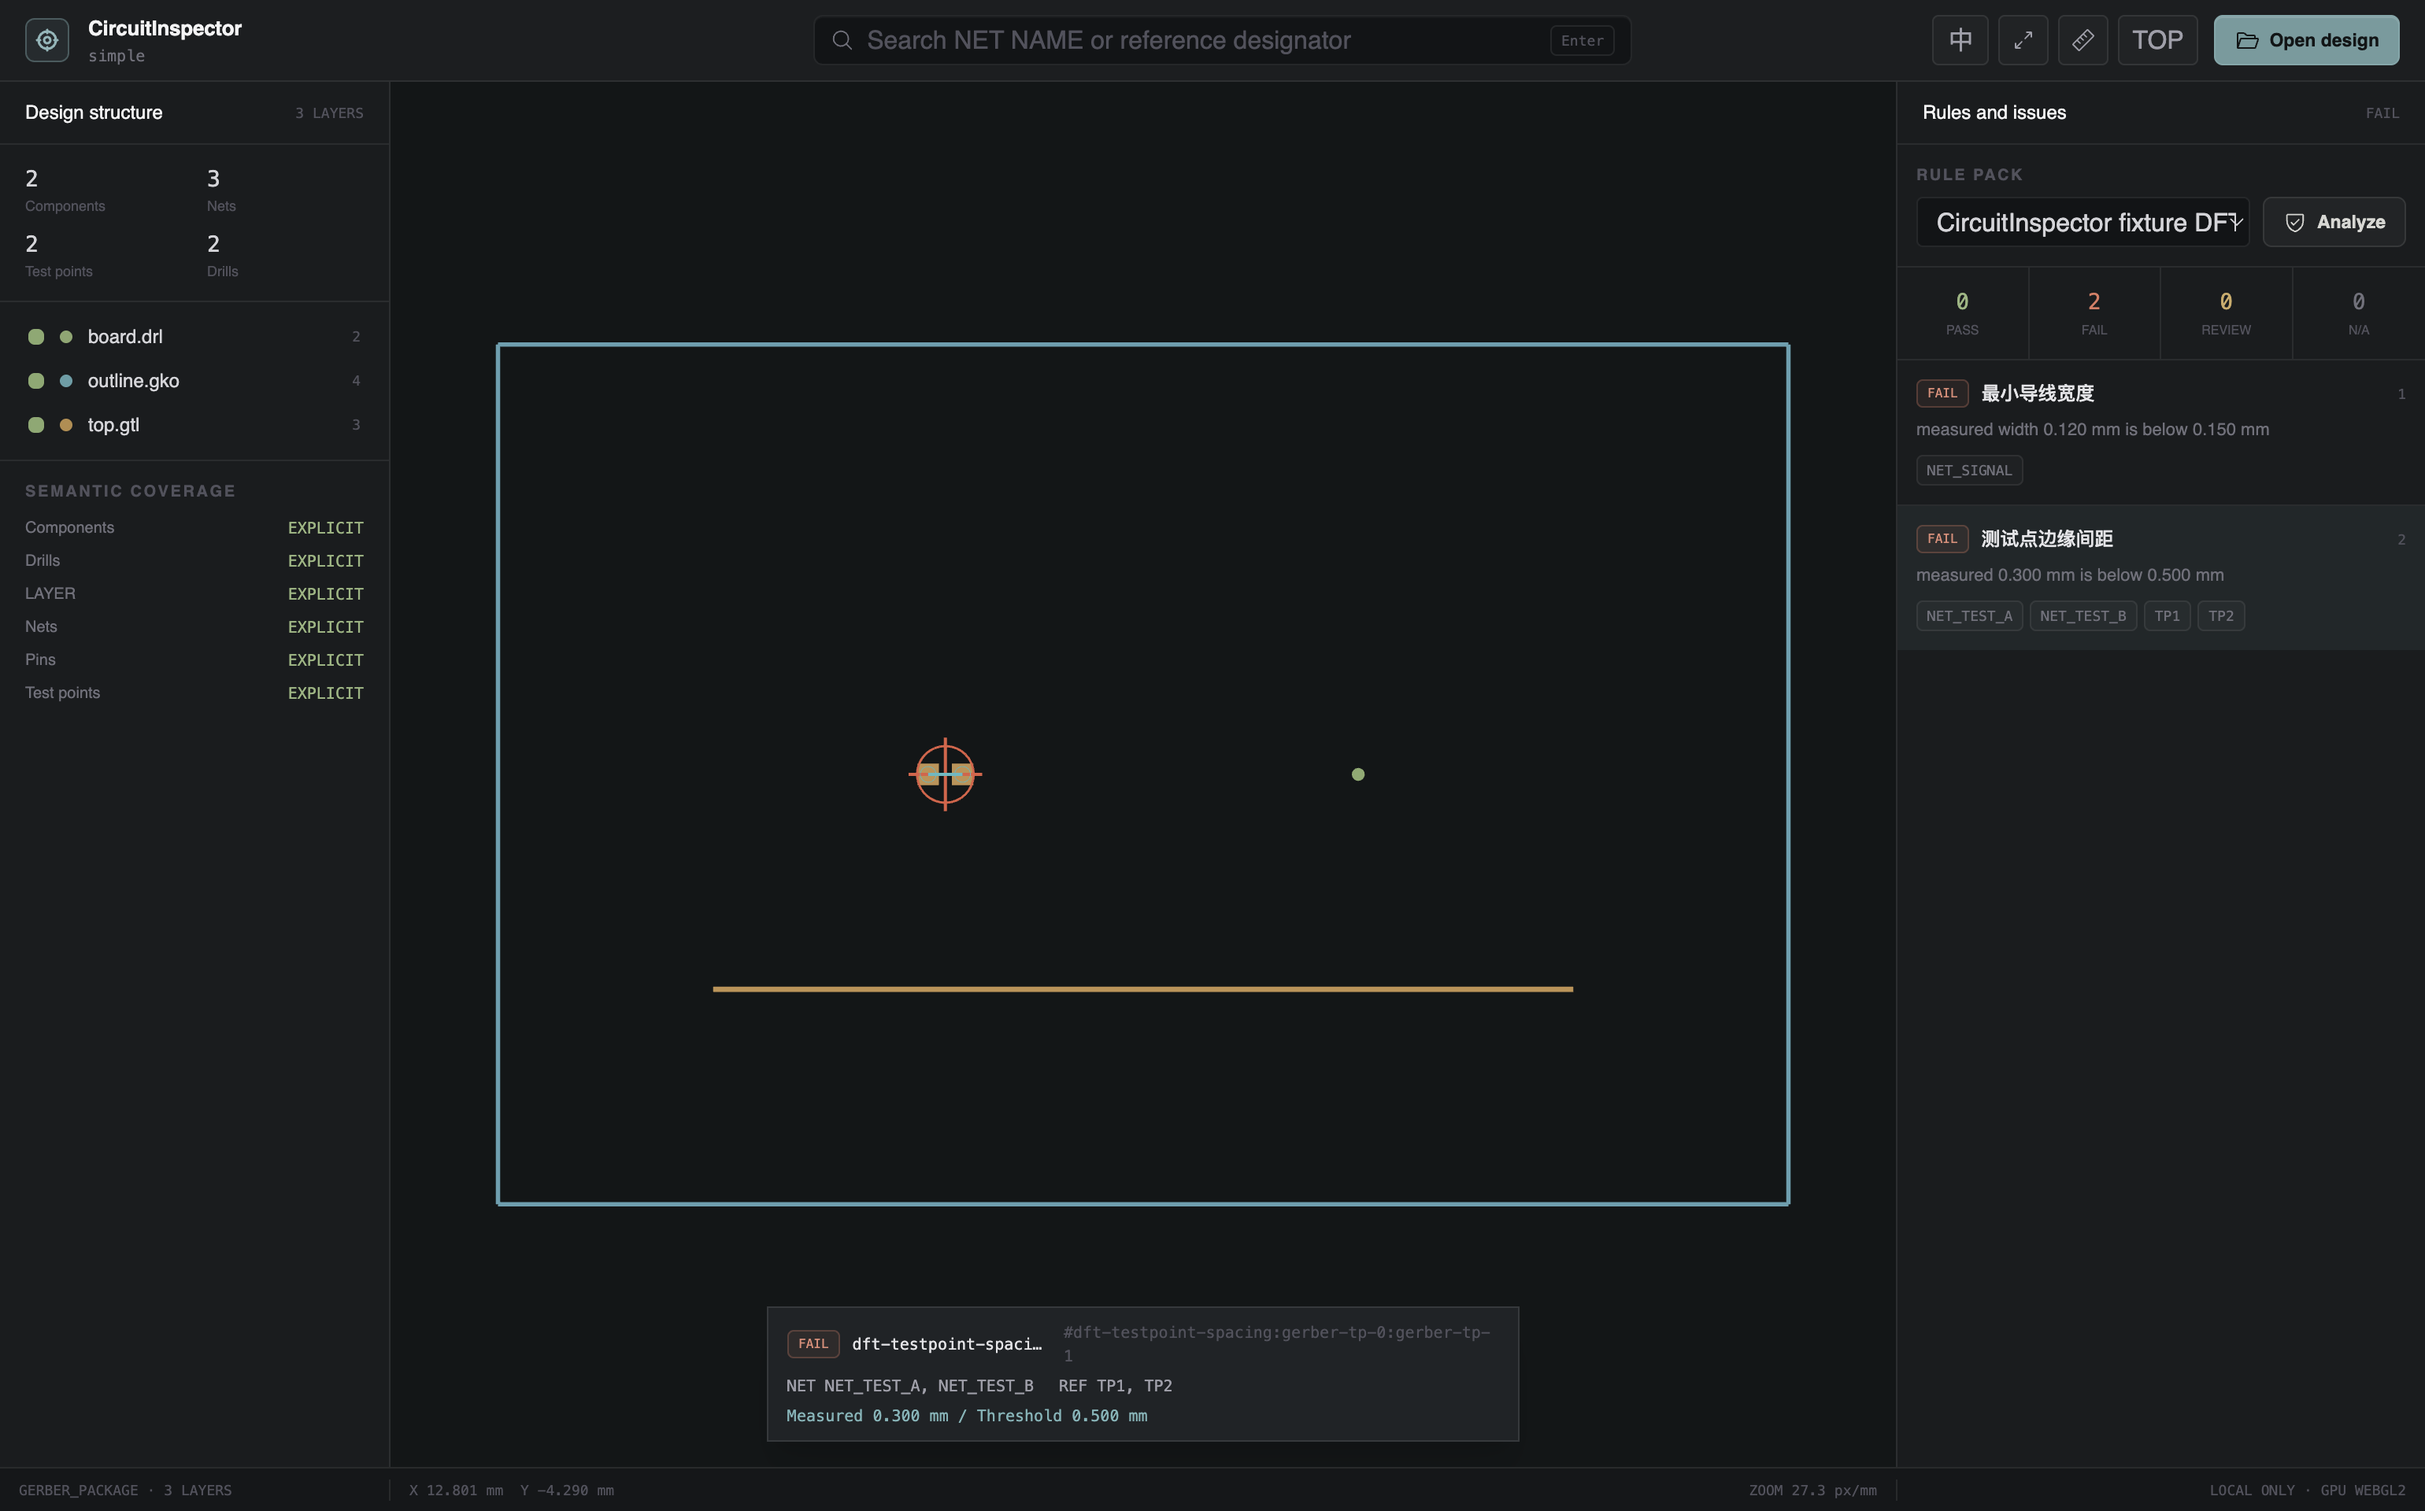
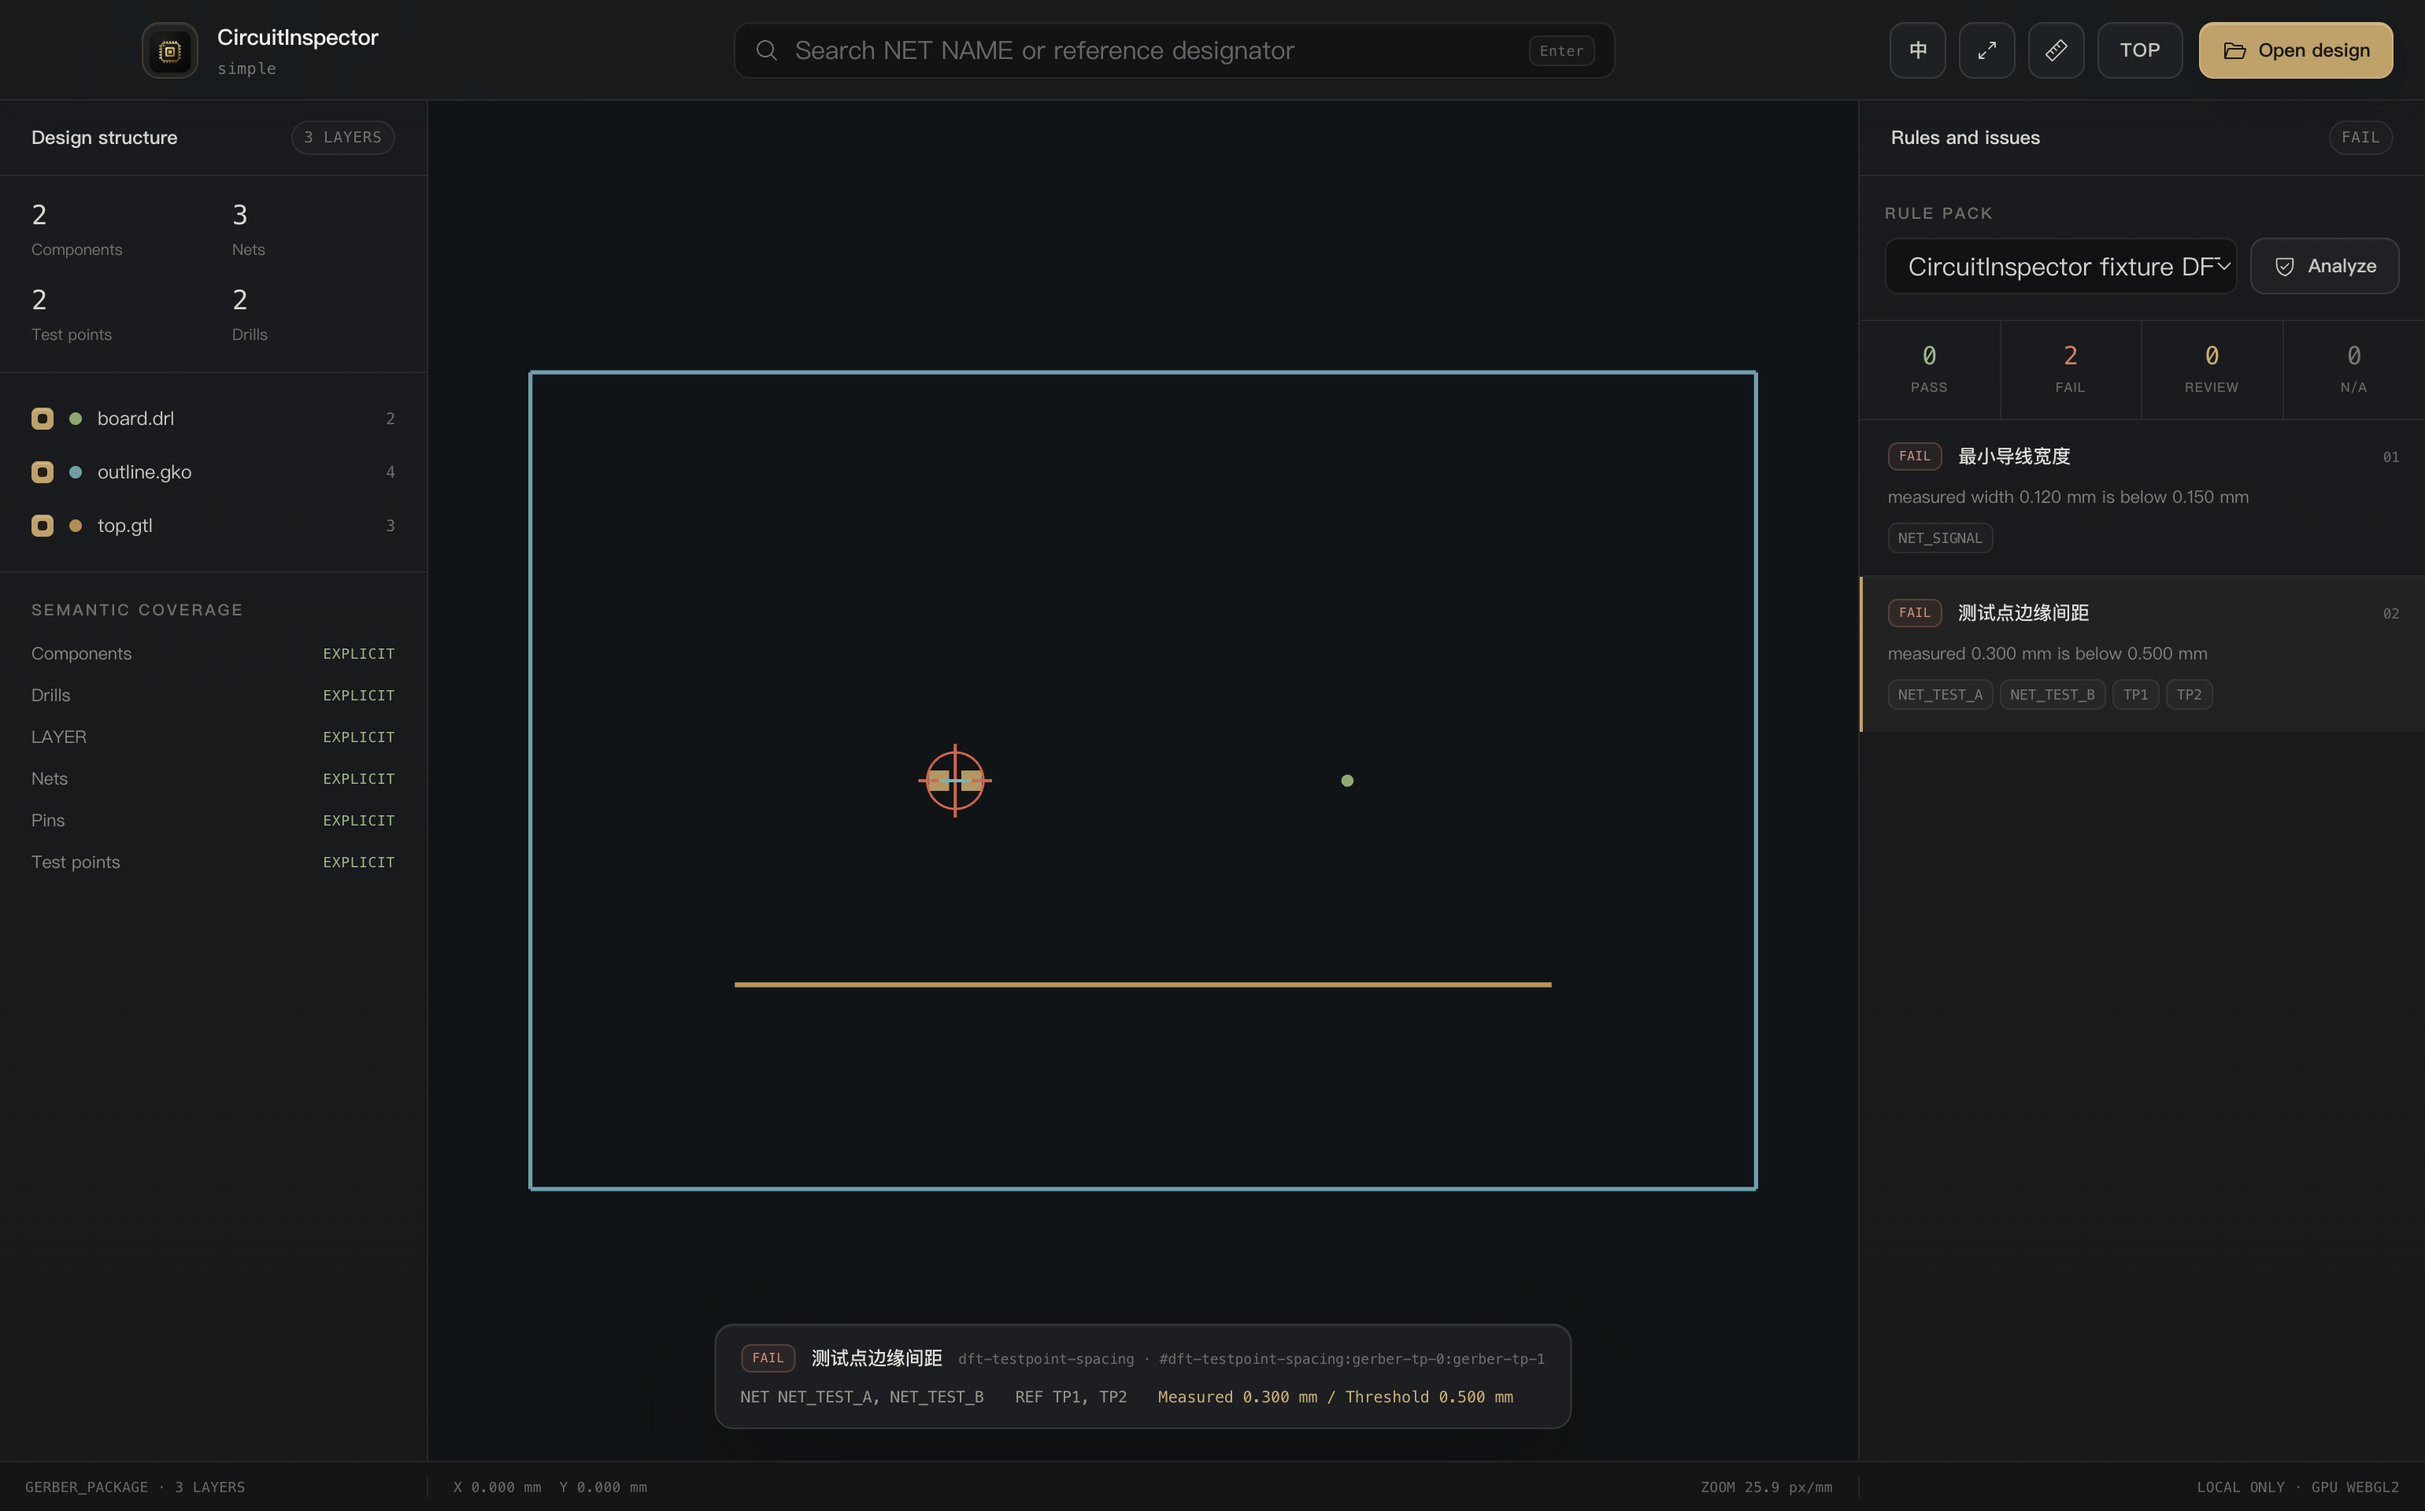
Refresh README viewer screenshot

diff --git a/README.md b/README.md
@@ -32,7 +32,7 @@
   <img src="docs/images/circuitinspector-viewer.png" alt="CircuitInspector Viewer focused on a Gerber test-point spacing violation" width="100%">
 </p>
 
-<p align="center"><sub>Actual packaged macOS arm64 Viewer rendering a local Gerber fixture and its selected test-point spacing violation.</sub></p>
+<p align="center"><sub>Current macOS arm64 Viewer rendering a local Gerber fixture and its selected test-point spacing violation.</sub></p>
 
 <div align="center">
 
